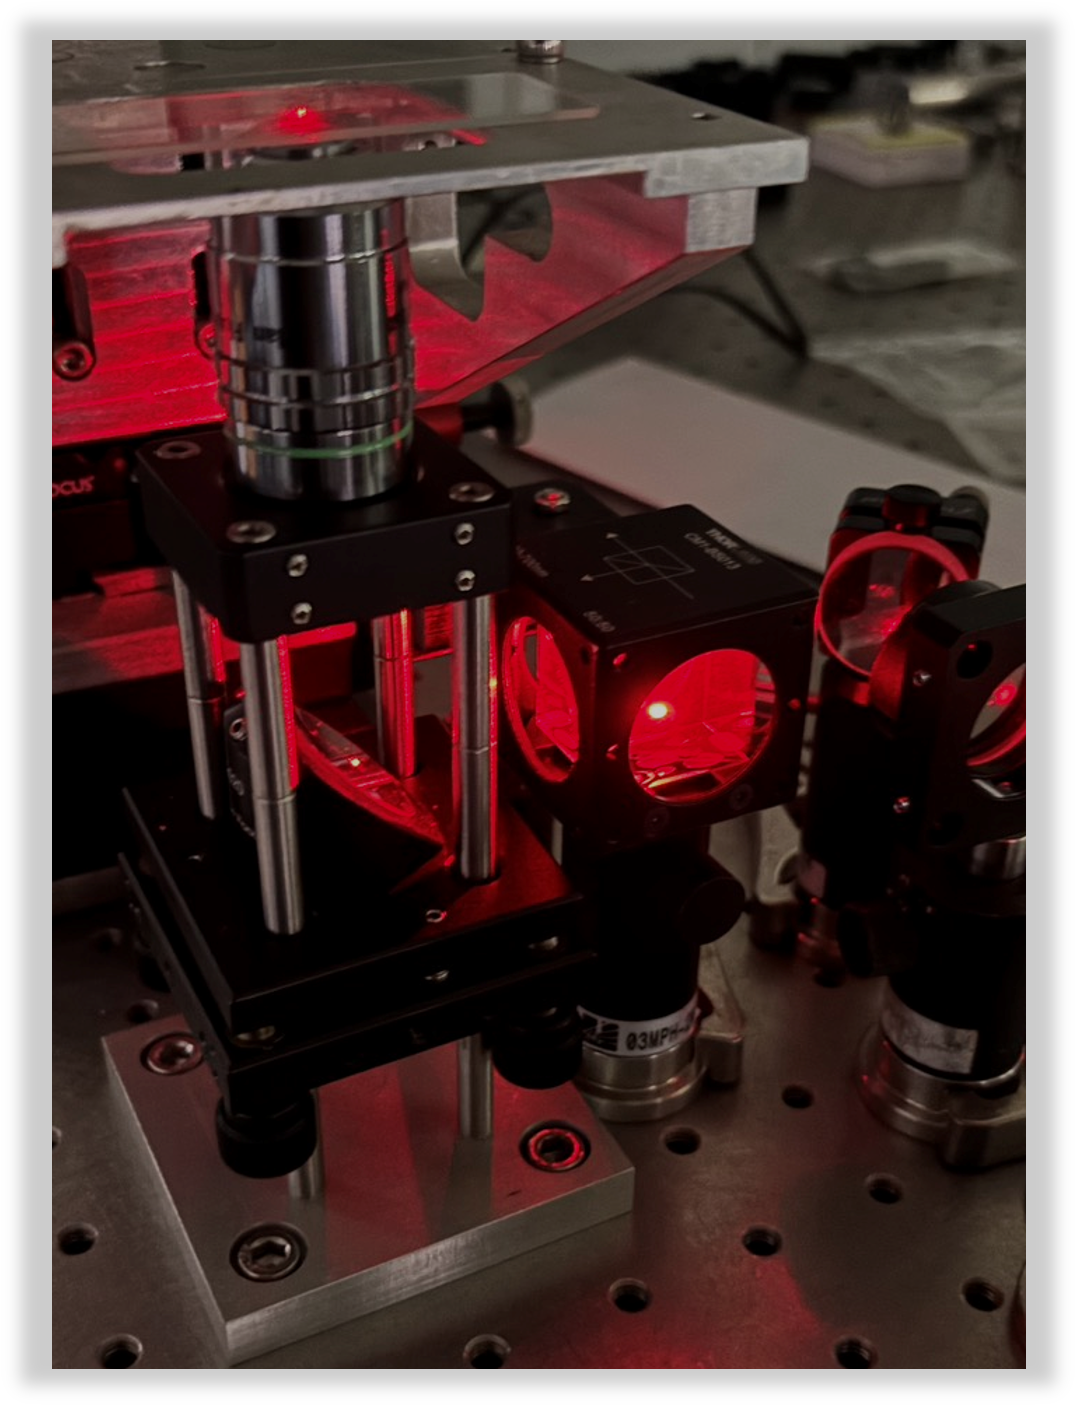
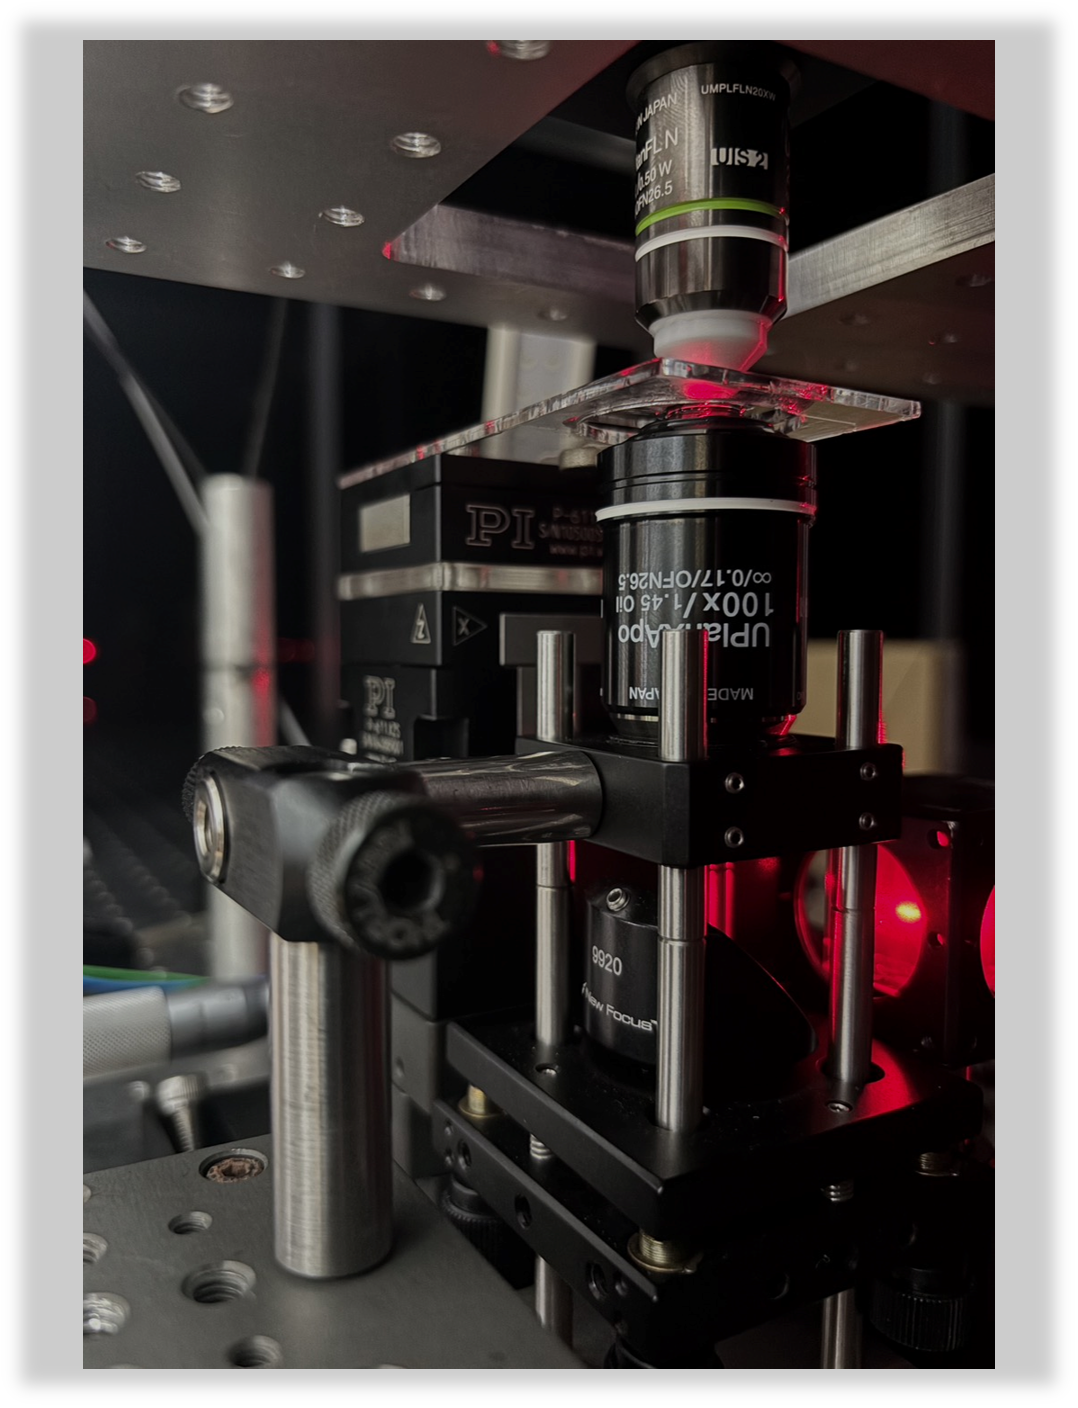
test

diff --git a/content/photo/index.md b/content/photo/index.md
@@ -34,7 +34,18 @@ sections:
       #    icon_pack: fas
       #    text: Join Us
       #    url: ../contact/
-      
+
+      - title: ''
+        content: ''
+        align: center
+        background:
+          image:
+            filename: Lab_17.png
+            filters:
+              brightness: 0.92
+          position: right
+          color: '#666'
+
       - title: ''
         content: ''
         align: center
